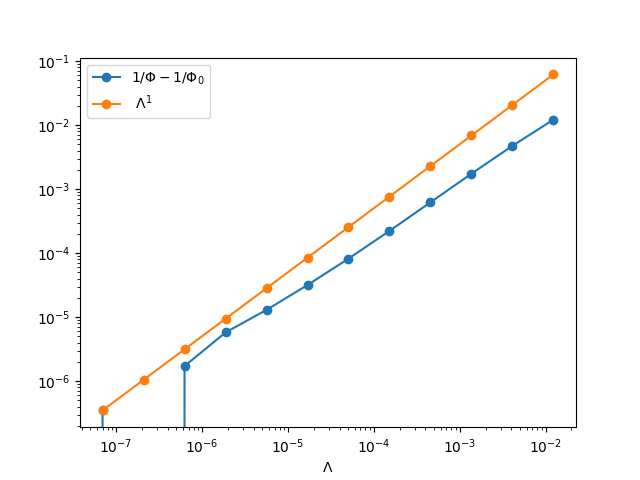
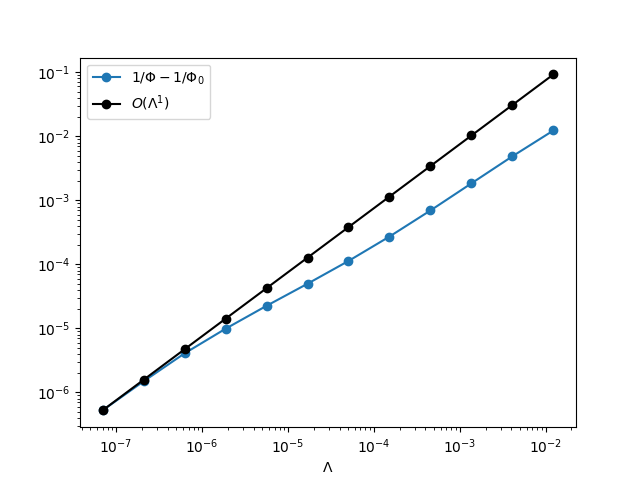
update

diff --git a/Ex1_square_top_snowflake/main_flux.py b/Ex1_square_top_snowflake/main_flux.py
@@ -7,7 +7,7 @@ from scipy import stats
 #nn=int(input("Enter the number of iterations for the pre-fractal boundary: "))
 #deg=int(input("Enter the degree of polynomial: "))
 nn=4
-deg=4
+deg=2
 l=(1/3)**nn
 Lp=(4/3)**nn
 # choose a triangulation
@@ -46,7 +46,7 @@ cc=[]
 import numpy as np
 dim_frac=np.log(4)/np.log(3)
 #LL = np.array([10**(-5),0.0001,0.001,0.01,0.1,0.2,0.5,1,1.5,2,2.5,5,10,15,20,40,60,100,200,400,600,1000])
-LL = np.array([2**i for i in range(-10,10)])
+LL = np.array([2**i for i in range(-15,10)])
 for Lambda in LL:
   a = Constant(D)*dot(grad(u), grad(v))*dx+Constant(D)/Constant(Lambda)*u*v*ds(4)
   L = Constant(0)*v*dx
@@ -75,8 +75,9 @@ phi_2_log=np.log(phi_2)
 #c=exp(res.intercept)
 alpha=1
 plt.loglog(LL, phi_2,marker='o')
-plt.loglog(LL,(LL)**alpha/(LL[0]**alpha)*(phi_2[0]),marker='o')
-plt.legend(['$1/\Phi-1/\Phi_0$', '$~\Lambda^{{%s}}$' % (alpha)])
+plt.loglog(LL,(LL)**alpha/(LL[0]**alpha)*(phi_2[0]),marker='o',color='black')
+plt.loglog(LL,(LL)**alpha/(LL[-1]**alpha)*(phi_2[-1]),marker='o',color='black')
+plt.legend(['$1/\Phi-1/\Phi_0$', '$O(\Lambda^{{%s}})$' % (alpha)])
 plt.xlabel('$\Lambda$')
 plt.savefig(f"figures/Phi_Lam_{nn}.png")
 PETSc.Sys.Print(f"Plot for 0<Lambda<1000 saved to figures/Phi_Lam_{nn}.png ")
@@ -121,8 +122,8 @@ for i in range(len(Phi)):
 #c=exp(res.intercept)
 alpha=1
 plt.loglog(LL, phi_2,marker='o')
-plt.loglog(LL,(LL)**alpha/(LL[-1]**alpha)*(phi_2[-1]),marker='o')
-plt.legend(['$1/\Phi-1/\Phi_0$', '$~\Lambda^{{%s}}$' % (alpha)])
+plt.loglog(LL,(LL)**alpha/(LL[-1]**alpha)*(phi_2[-1]),marker='o',color='black')
+plt.legend(['$1/\Phi-1/\Phi_0$', '$O(\Lambda^{{%s}})$' % (alpha)])
 plt.xlabel('$\Lambda$')
 plt.savefig(f"figures/Phi_Lam_{nn}_R1.png")
 PETSc.Sys.Print(f"plot for 0<Lambda<l saved to figures/Phi_Lam_{nn}_R1.png ")
@@ -169,8 +170,8 @@ for i in range(len(Phi)):
 #c=exp(res.intercept)
 alpha=1/dim_frac
 plt.loglog(LL, phi_2,marker='o')
-plt.loglog(LL,(LL)**alpha/(LL[0]**alpha)*(phi_2[0]),marker='o')
-plt.legend(['$1/\Phi-1/\Phi_0$', '$~\Lambda^{1/dim_frac}$'])
+plt.loglog(LL,(LL)**alpha/(LL[0]**alpha)*(phi_2[0]),marker='o',color='black')
+plt.legend(['$1/\Phi-1/\Phi_0$', '$O(\Lambda^{1/dim_frac})$'])
 plt.xlabel('$\Lambda$')
 plt.savefig(f"figures/Phi_Lam_{nn}_R2.png")
 PETSc.Sys.Print(f"Plot for l<Lambda<L_p saved to figures/Phi_Lam_{nn}_R2.png ")
